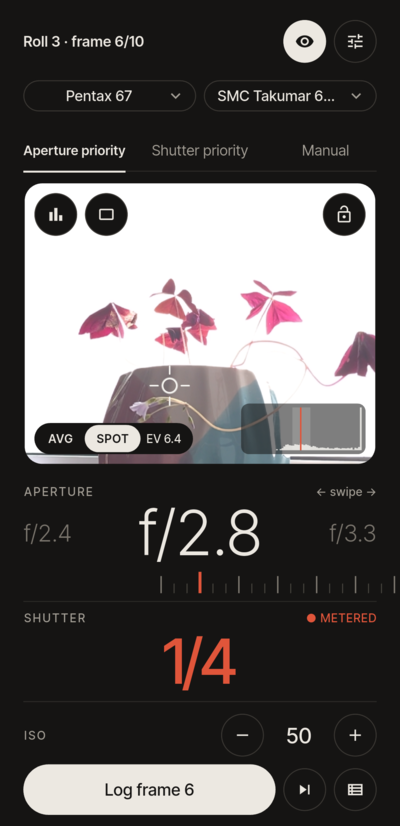
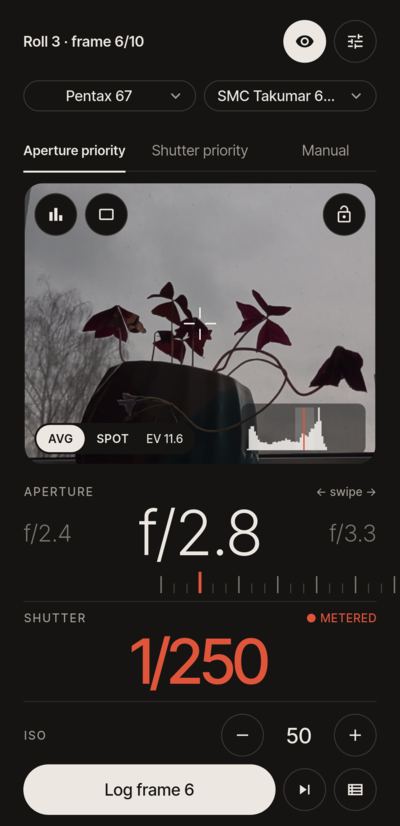
docs: dark-mode meter screenshot with average metering
Claude-Session: https://claude.ai/code/session_01NvGL4s4SXe4Fa4EeBU86mw

Changed region(s): [[0.06, 0.2119, 0.96, 0.5751], [0.33, 0.7567, 0.69, 0.8475]]

diff --git a/README.md b/README.md
@@ -9,7 +9,7 @@ no Google Play Services.
 
 <p align="center">
   <img src="docs/screenshots/1-meter_light.png" width="240" alt="The meter in light mode: Pentax 67 with Roll 3 loaded, a spot on a backlit plant, f/2.8 and a metered 1/8">
-  <img src="docs/screenshots/2-meter_dark.png" width="240" alt="The meter in dark mode, with the histogram and the film's latitude">
+  <img src="docs/screenshots/2-meter_dark.png" width="240" alt="The meter in dark mode, average metering with the histogram and the film's latitude: f/2.8 and a metered 1/250">
   <img src="docs/screenshots/3-roll.png" width="240" alt="A roll of Velvia 50 on the Pentax 67: five frames with thumbnails, settings, lens and time">
 </p>
 <p align="center">
